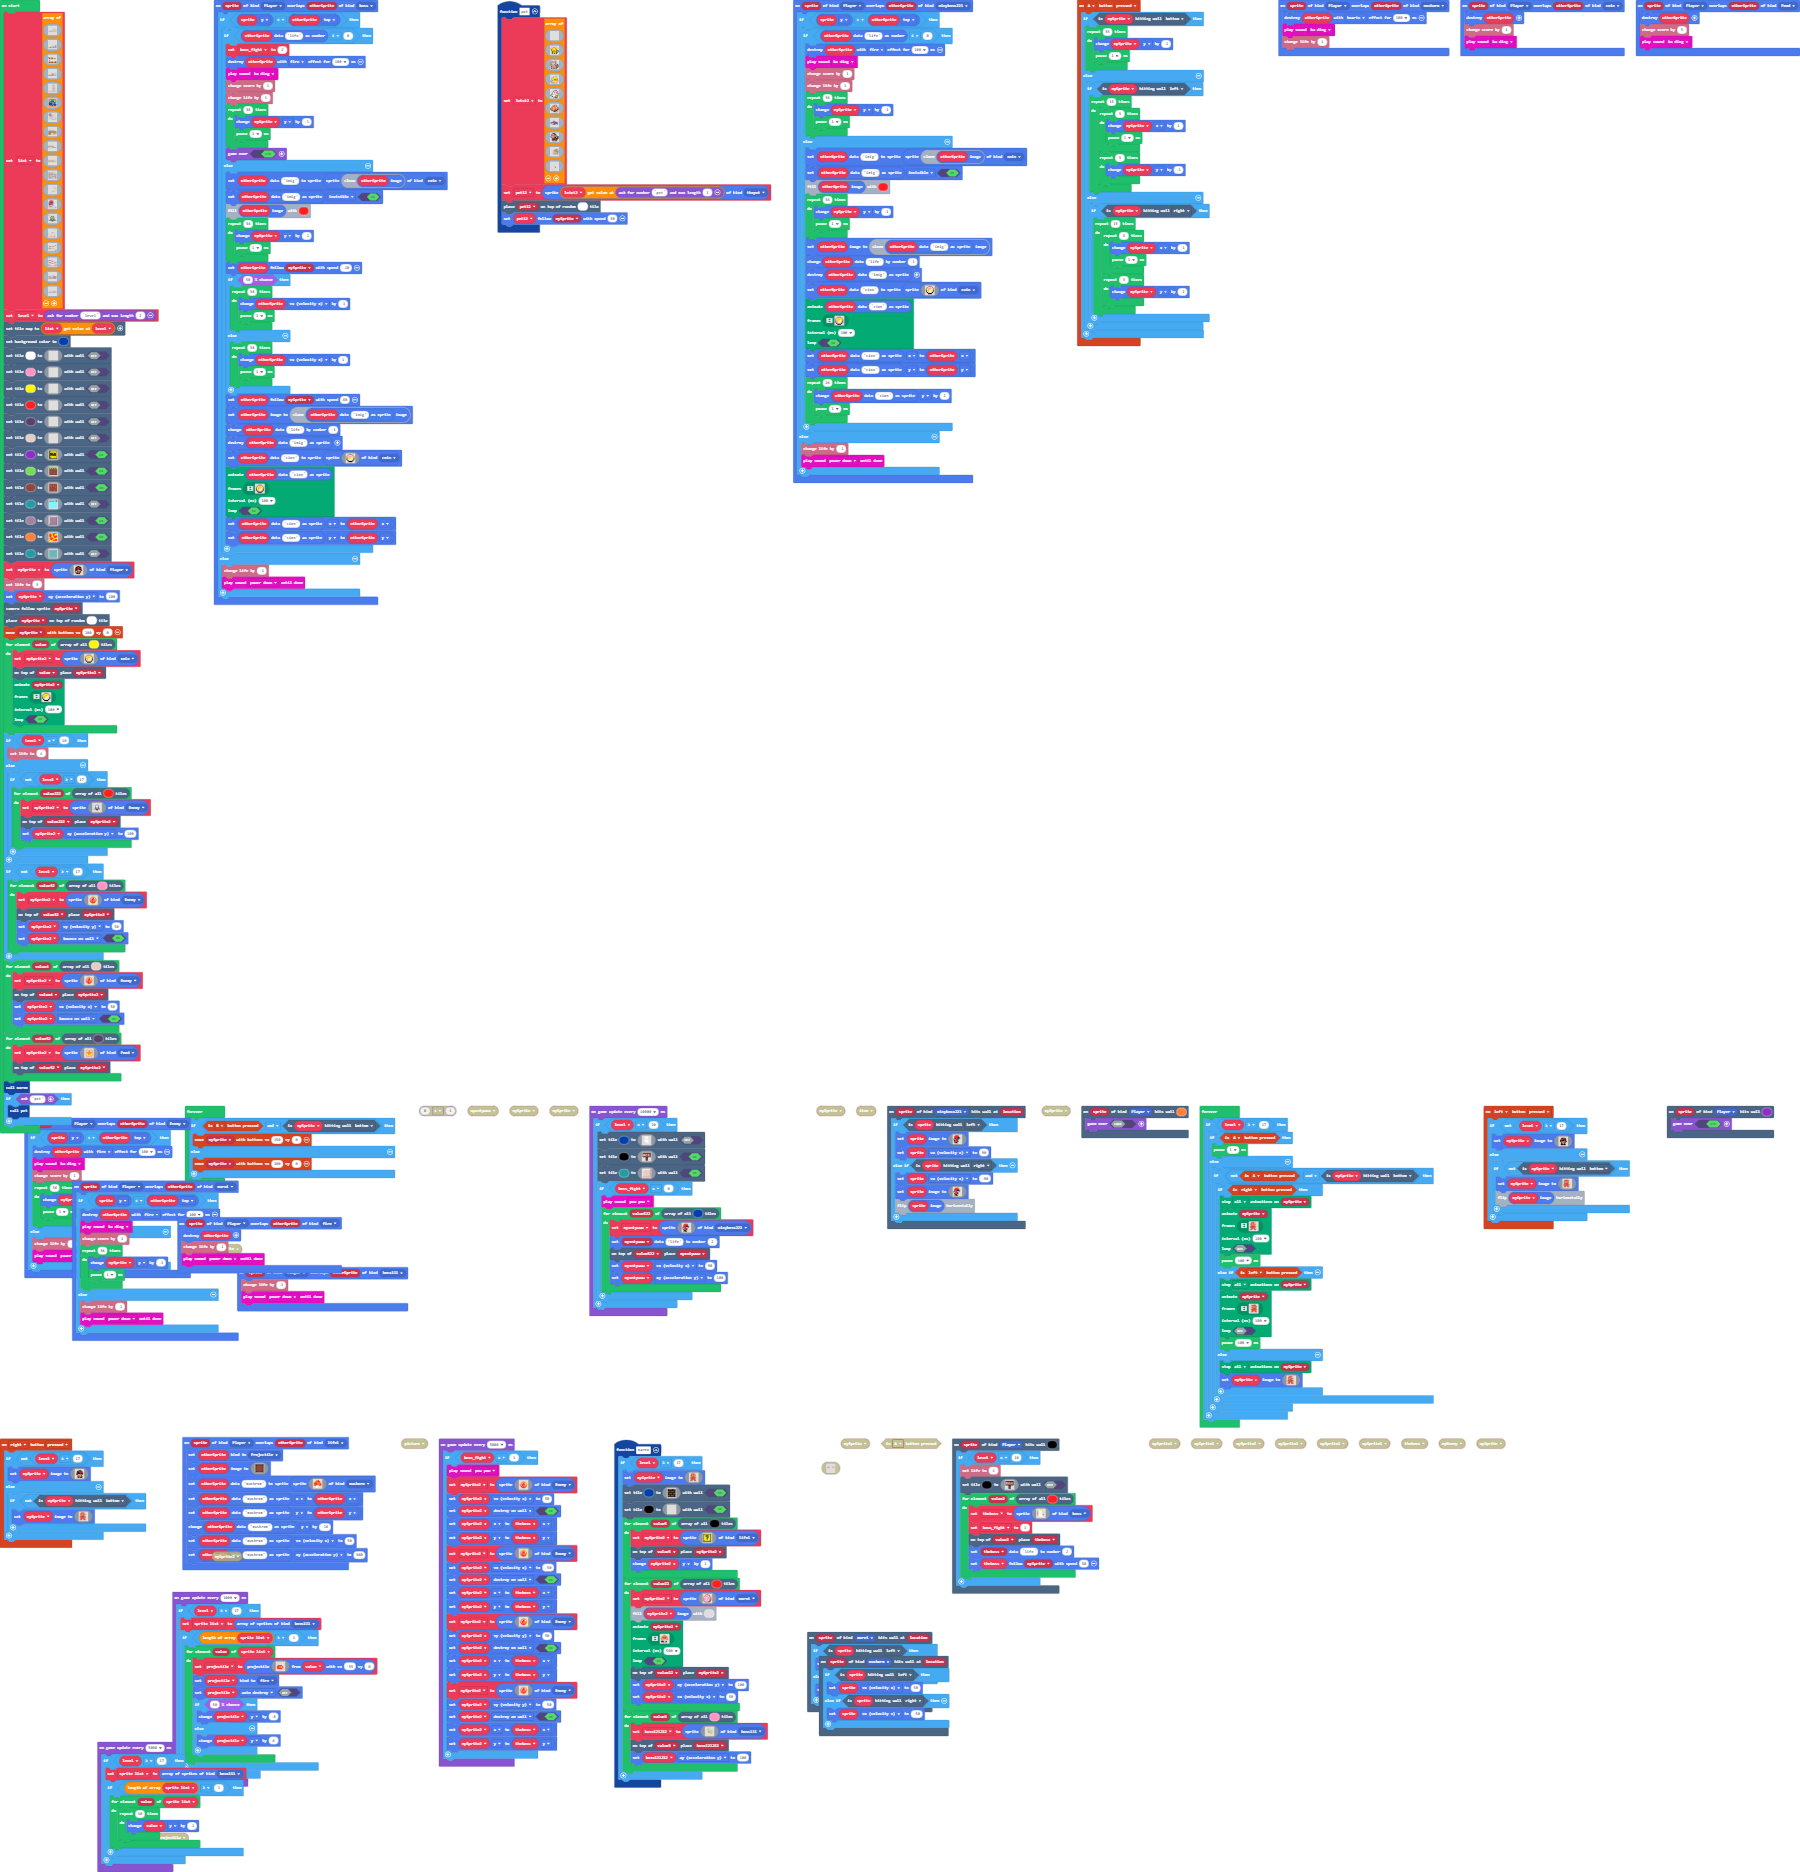
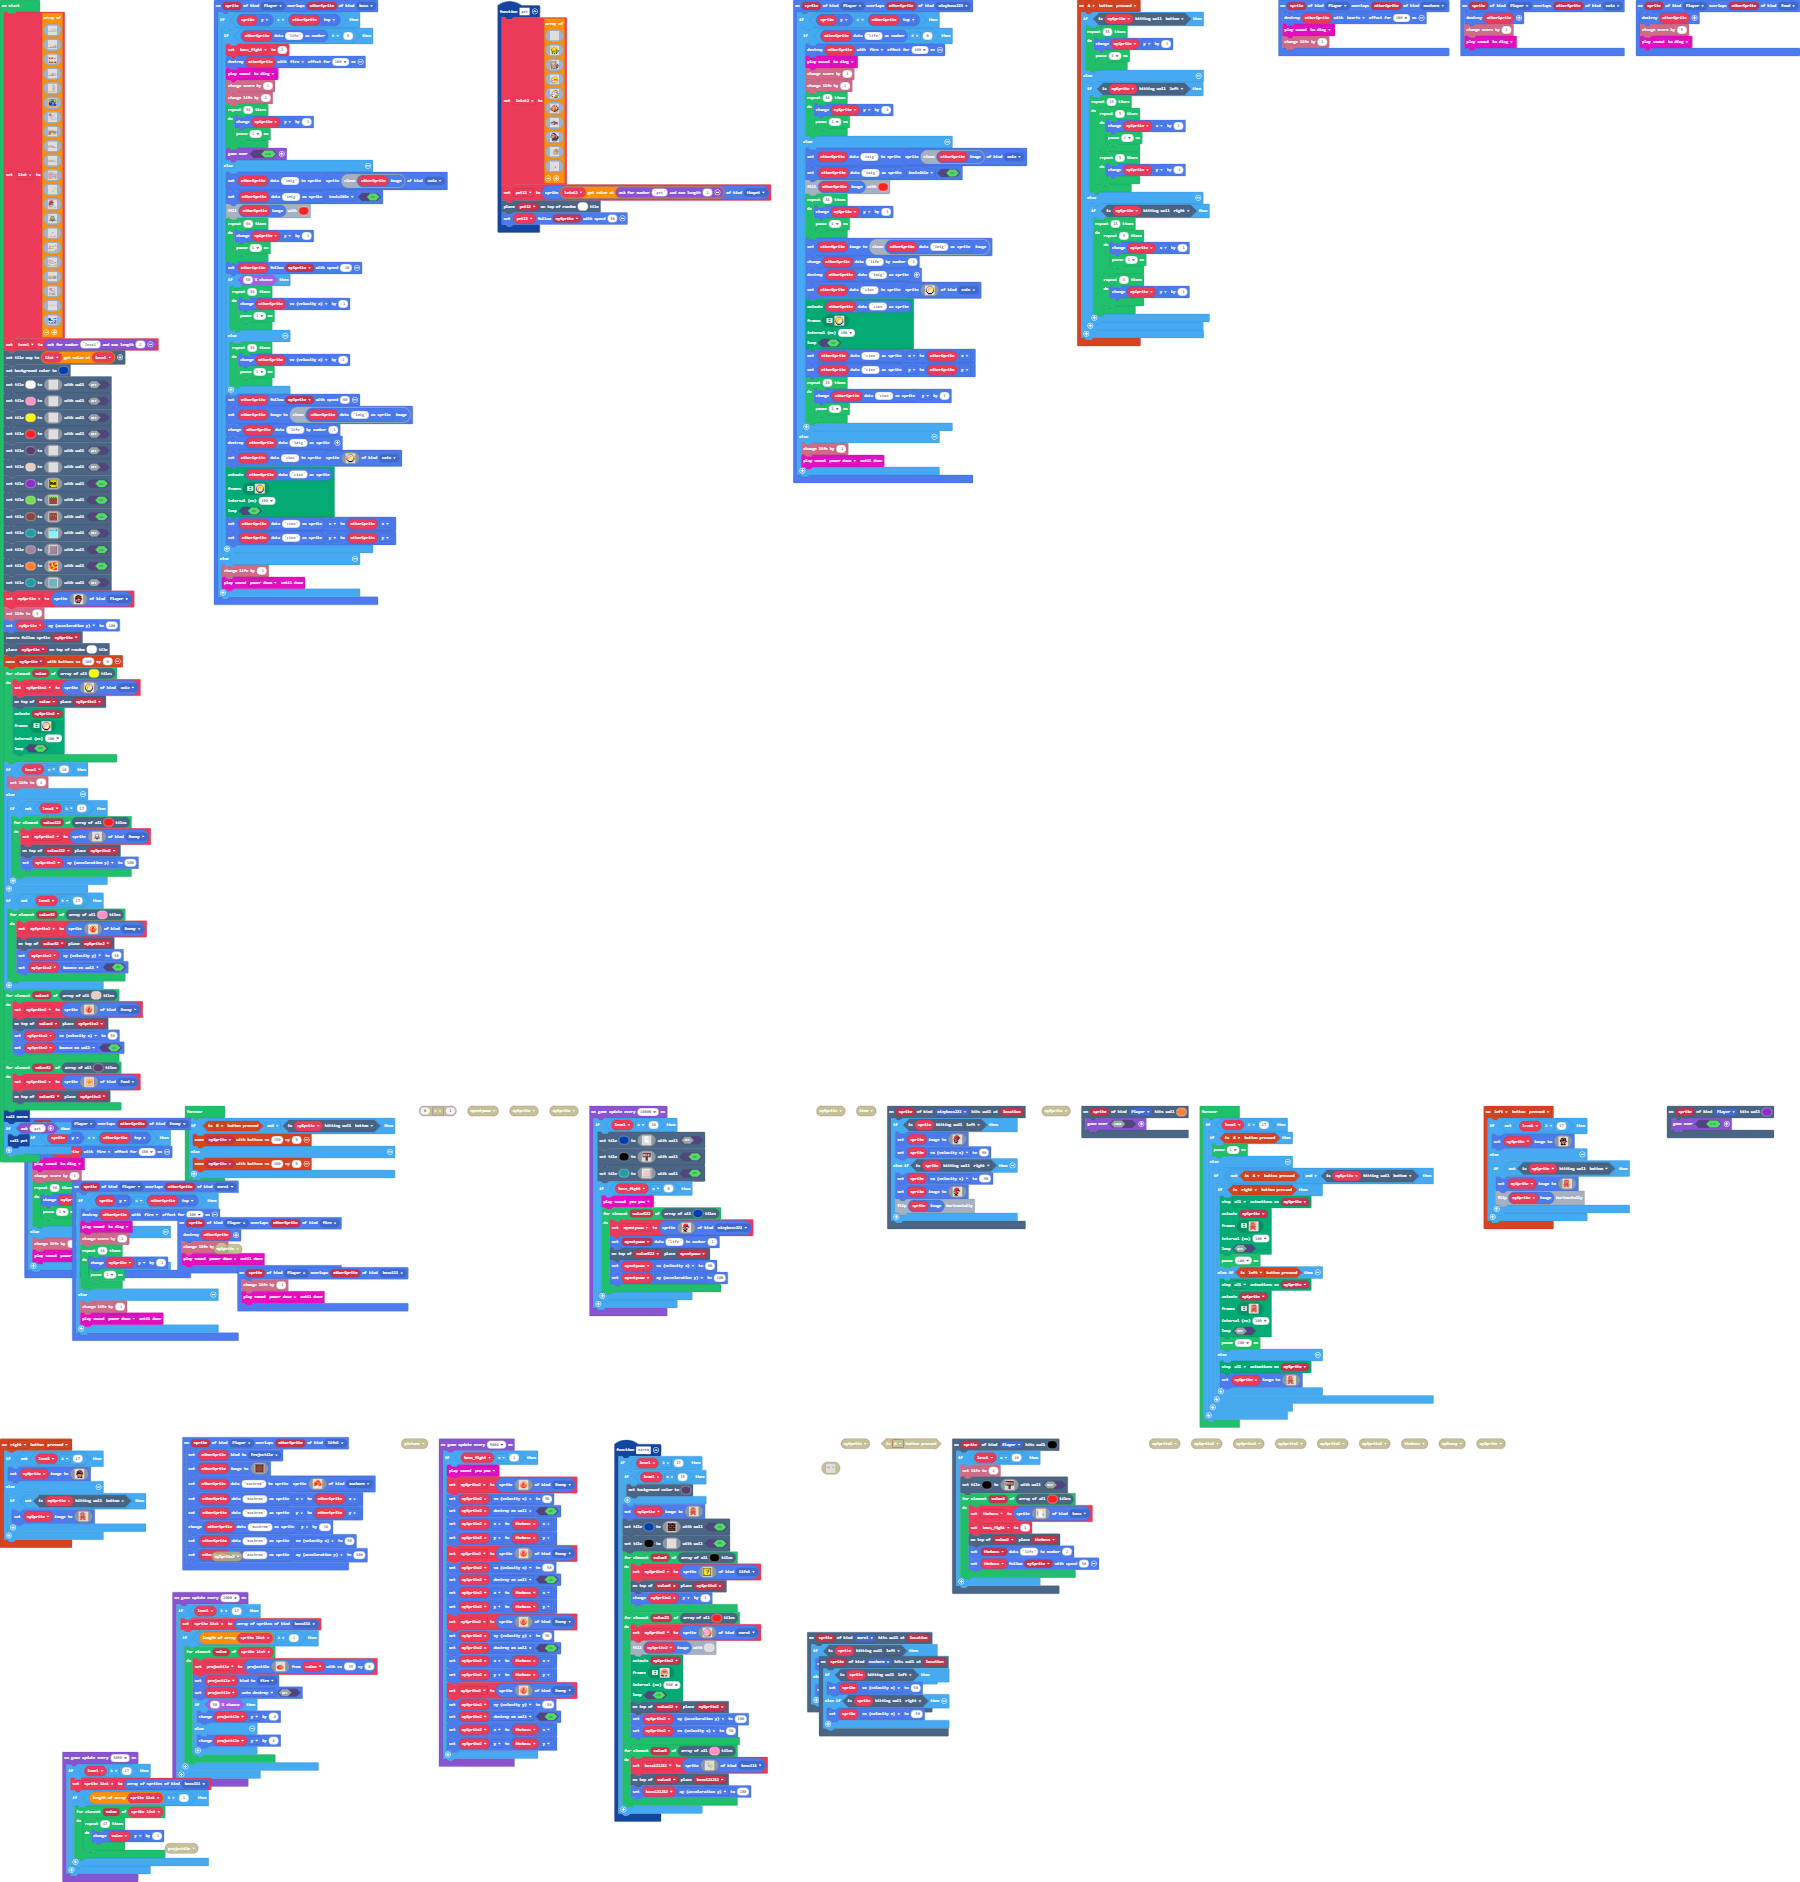
Update main.blocks, main.ts

diff --git a/main.ts b/main.ts
@@ -683,6 +683,9 @@ scene.onHitWall(SpriteKind.morei, function (sprite, location) {
 })
 function mareo () {
     if (level >= 17) {
+        if (level == 19) {
+            scene.setBackgroundColor(12)
+        }
         mySprite.setImage(img`
             . . . 2 2 2 2 2 2 . . . . . . 
             . . 2 2 2 2 2 2 2 2 2 2 . . . 
@@ -743,17 +746,17 @@ function mareo () {
                 f f f f f f f f f f f f f f f f 
                 f 5 5 5 5 5 5 5 5 5 5 5 5 5 5 f 
                 f 5 f 5 5 5 5 5 5 5 5 5 5 f 5 f 
-                f 5 5 5 5 f f f f f f 5 5 5 5 f 
-                f 5 5 5 5 f f f f f f 5 5 5 5 f 
-                f 5 5 5 5 f f 5 5 f f 5 5 5 5 f 
-                f 5 5 5 5 f f 5 5 f f 5 5 5 5 f 
-                f 5 5 5 5 5 5 5 5 f f 5 5 5 5 f 
-                f 5 5 5 5 5 5 f f f f 5 5 5 5 f 
-                f 5 5 5 5 5 5 f f 5 5 5 5 5 5 f 
-                f 5 5 5 5 5 5 f f 5 5 5 5 5 5 f 
+                f 5 5 5 5 4 4 4 4 4 4 f 5 5 5 f 
+                f 5 5 5 5 4 4 4 4 4 4 f 5 5 5 f 
+                f 5 5 5 5 4 4 f 5 4 4 f 5 5 5 f 
+                f 5 5 5 5 4 4 f 5 4 4 f 5 5 5 f 
+                f 5 5 5 5 5 5 5 5 4 4 f 5 5 5 f 
+                f 5 5 5 5 5 5 4 4 4 4 f 5 5 5 f 
+                f 5 5 5 5 5 5 4 4 f 5 5 5 5 5 f 
+                f 5 5 5 5 5 5 4 4 f 5 5 5 5 5 f 
                 f 5 5 5 5 5 5 5 5 5 5 5 5 5 5 f 
-                f 5 5 5 5 5 5 f f 5 5 5 5 5 5 f 
-                f 5 5 5 5 5 5 f f 5 5 5 5 5 5 f 
+                f 5 5 5 5 5 5 4 4 f 5 5 5 5 5 f 
+                f 5 5 5 5 5 5 4 4 f 5 5 5 5 5 f 
                 f 5 f 5 5 5 5 5 5 5 5 5 5 f 5 f 
                 f 5 5 5 5 5 5 5 5 5 5 5 5 5 5 f 
                 f f f f f f f f f f f f f f f f 
@@ -1499,22 +1502,62 @@ img`
     e e e e e e e e e e e e e e e e e e e e e e e e e b b b b b b b b b b b b b b b b b e e e e e e e e e e e e e e e e e e e e e e e e e e e e 
     `,
 img`
-    . . . . . . . . . . . . . . . . . . . . . . . . . . . . . . . . . . . . . . . . 
-    . . . . . . . . . . . . . . . . . . . . . . . . . . . . . . . . . . . . . . . . 
-    . . . . . . . . . . . . . . . . . . . . . . . . . . . . . . . . . . . . . . . . 
-    . . . . . . . . . . . . . . . . . . . . . . . . . . . . . . . . . . . . . . . . 
-    . . . . . . . . . . . . . . . . . . . . . . . . . . . . . . . . . . . . . . . . 
-    . . . . . . . . . . . . . . . . . b b b b b b . . . . b b b b b . . . . . . . . 
-    . . . . . . . . . . . . b b b . . . . . . . . . . . . . . . . . . . . . . . . . 
-    . . . . . . . . . . . . . . . . . . . . . . . . . . . . . . . . . 3 . . . . . . 
-    . . . . . . . . . . . . . . . . b b b . . . . . . . . . . . . . . . . . . . . . 
-    . . . 1 . 8 f 8 . . . . . . . . . . . . . . . . . . 2 . . 2 . . . . . . . . a . 
-    . . . . . . . . . . . . . . . . . . . . b b b . . b b b b b b b b b b b b b b b 
-    . . . . . . . . . . . . . . . . . . . . . . . . . b b b b b b b b b b b b b b b 
-    b b b b b b b b . . 2 . . . . 2 . . . . . . . . b b b b b b b b b b b b b b b b 
-    b b b b b b b b b b b b b b b b b b b b b b b b b b b b b b b b b b b b b b b b 
-    b b b b b b b b b b b b b b b b b b b b b b b b b b b b b b b b b b b b b b b b 
-    b b b b b b b b b b b b b b b b b b b b b b b b b b b b b b b b b b b b b b b b 
+    . . . . . . . . . . . . . . . . 
+    . 1 . . . . . . . . . . . . . . 
+    . . . . 2 . . . . . . . . . . . 
+    b b b b b b b b b b . . . b . . 
+    b b b b b b b b . . . . . b . . 
+    b b b b b b b . . . . . . b . . 
+    b b b b b . . . . . . . . b . . 
+    . . . . . . . . c . . . . b . . 
+    . . b b b b b b b . . . . b . . 
+    . . 4 4 4 4 4 4 4 4 4 4 4 b . . 
+    . . . . . . . . . . . . . . . . 
+    . . . . . . . . 2 . . 2 . . . . 
+    b b b b b . . b b b b b b b b b 
+    . . . . . . . . . . . . . . . . 
+    . . . . . . . . . . . . . b . . 
+    b b b b b b b b b b b b b b . . 
+    a . . . . . . . . . . . . . . . 
+    a . . . . . . . 2 . . 2 . . . b 
+    a . . . . . b b b b b b b b b b 
+    b b b b b b b b b b b b b b b b 
+    `,
+img`
+    b b b b b b b b b b b b b b b b b b b b b b b b b b b b b b b b b b b b b b b b b b b b b b b b b b b b b b b b b b b b b b b b b b b b b b b b b b b b b b b b b b b b b b b b b b b b b b b b b b b b b b b b b b b b b b b b b b b b b b b b 
+    b b b b b b b b b b b b b b b b b b b b b b b b b b b b b b b b b b b b b b b b b b b b b b b b b b b b b b b b b b b b b b b b b b b b b b b b b b b b b b b b b b b b b b b b b b b b b b b b b b b b b b b b b b b b b b b b b b b b b b b b 
+    b b b b b b b b b b b b b b b b b b b b b b b b b b b b b b b b b b b b b b b b b b b b b b b b b b b b b b b b b b b b b b b b b b b b b b b b b b b b b b b b b b b b b b b b b b b b b b b b b b b b b b b b b b b b b b b b b b b b b b b b 
+    b b b b b b b b b b b b b b b b b b b b b b b b b b b b b b b b b b b b b b b b b b b b b b b b b b b b b b b b b b b b b b b b b b b b b b b b b b b b b b b b b b b b b b b b b b b b b b b b b b b b b b b b b b b b b b b b b b b b b b b b 
+    b b b b b b b b b b b b b b b b b b b b b b b b b b b b b b b b b b b b b b b b b b b b b b b b b b b b b b b b b b b b b b b b b b b b b b b b b b b b b b b b b b b b b b b b b b b b b b b b b b b b b b b b b b b b b b b b b b b b b b b b 
+    b b b b b b b b b b b b b b b b b b b b b b b b b b b b b b b b b b b b b b b b . . . . . . . . b b b b b b b b b b b b b b b b b b b b b b b b b . . . . . . . . . . . . . . . . . . . . . . . . . . . . . . . . . . . . . . . . . . . . . . . 
+    b b b b b b b b b b b b b b b b b b b b b b b b b b b b b b b b b b b b b b b b . . . . . . . . b 8 8 8 8 8 8 8 8 8 8 b b b b b b b . . . . . . . . . . . . . . . . . . . . . . . . . . . . . . . . . . . . . . . . . . . . . . . . . . . . . . 
+    . . . . . . . . . . . . b b b b b b b b b b b b b b b b b b b b b b b b b b b b c . . . . . . . b 8 . . . . . . . . 8 b b b b . . . . . . . . . . . . . . . . . . . . . . . . . . . . . . . . . . . . . . . . . 3 . . . . . . . . . . . . . . . 
+    . . . . . . . . . . . . b b b b b b b b b b b b b b b b b b b b b b b b b b b b b b b b b . . b b 8 . . . . 8 . . . 8 b b b . . . . . . . . . . . . . . . . . . . . . . . . . . . . . . . . . . . . . . . . . . . . . . . . . . . . . . . . . . 
+    . . . 1 . 8 f 8 . . . . . . . . . . . . . . . . . . . . . . . . . . . . . . . . . . b b b . . b b 8 . . . . . . . . 8 b b b . . . . . . . . . . . . . . . . . . . . . . . . . . . . . . . . . . . . . . . . . . . . . . . . . . . . . . . . a . 
+    . . . . . . . . . . . . . . . . . . . . . . . . . . . . . . . . . . . . . . . . . . . b b . . b b 8 . . . 8 f 8 . . 8 b b . . . b b . . . . . . . . b b . . . b b . . . b b . . . b b b b b b b b b b b b b b b b b b b b b b b b b b b b b b b 
+    . . . . . . . . . . . . . . . . . . . . . . . . . . . . . . . . . . . . . . . . . . . . b . . . . . . . . . . . . . . . . . . b b b . . . b b . . . b b . . . b b . . . b b . . . b b b b b b b b b . . . . . . . . . . . . . . . . . b b b b b 
+    b b b b b b b b . . . . . . . 5 5 . . . 5 . . . 5 5 5 5 5 5 5 5 5 5 . . . . . . . . . . . . . . . . . . . . . . . . . . . . b b b b b b b b b b b b b b b b b b b b b b b b b b b b b b b b b b b b . . . . . . . . . . . . . . . . . b b b b b 
+    b b b b b b b b b b b b b . . b b . . . b . . . b . b . b . b . b . b . . 2 . . . . 2 . . b b b b b b b b b b b b b b b b b b b b b b b b b b b b b b b b b b b b b b b b b b b b b b b b b b b b b 4 4 4 4 4 4 4 4 4 4 4 4 4 4 4 4 4 b b b b b 
+    b b b b b b b b b b b b b . . b b . . . b . . . . . . . . . . . . . b b b b b b b b b b b b b b b b b b b b b b b b b b b b b b b b b b b b b b b b b b b b b b b b b b b b b b b b b b b b b b b b 4 4 4 4 4 4 4 4 4 4 4 4 4 4 4 4 4 b b b b b 
+    b b b b b b b b b b b b b 4 4 b b 4 4 4 b 4 4 4 4 4 4 4 4 4 4 4 4 4 b b b b b b b b b b b b b b b b b b b b b b b b b b b b b b b b b b b b b b b b b b b b b b b b b b b b b b b b b b b b b b b b 4 4 4 4 4 4 4 4 4 4 4 4 4 4 4 4 4 b b b b b 
+    `,
+img`
+    . . . . . . . . . . . . . . . . 
+    . . . . . . . . . . . . . . . . 
+    . . . . . . . . . . . . . . . . 
+    . a . . . . . . . . . . . . c . 
+    8 8 8 8 . . . . . . . 8 8 8 8 8 
+    8 8 8 8 . . . . . 8 8 . . . . . 
+    8 8 8 8 8 . . . . . . . . . . . 
+    8 8 8 8 8 . . . . . . . . . . . 
+    8 8 8 8 8 8 8 8 8 . . . 8 8 8 8 
+    . . . . . . . . . . . . . . . . 
+    . . . . . . . . . . 8 . . 2 . . 
+    . . . . . . . . . . . . 8 8 8 8 
+    8 8 8 . . . 8 8 8 . . 8 8 8 8 8 
+    . . . . . . . . . . . . . . . . 
+    1 . . . . . 2 . . . . 2 . . . . 
+    8 8 8 8 8 8 8 8 8 8 8 8 8 8 8 8 
     `
 ]
 level = game.askForNumber("level", 2)
@@ -2051,14 +2094,14 @@ game.onUpdateInterval(5000, function () {
         sprite_list = sprites.allOfKind(SpriteKind.boss111)
         if (sprite_list.length >= 1) {
             for (let value of sprite_list) {
-                for (let index = 0; index < 40; index++) {
+                for (let index = 0; index < 47; index++) {
                     value.y += -1
                 }
             }
         }
     }
 })
-game.onUpdateInterval(1000, function () {
+game.onUpdateInterval(2000, function () {
     if (level >= 17) {
         sprite_list = sprites.allOfKind(SpriteKind.boss111)
         if (sprite_list.length >= 1) {
